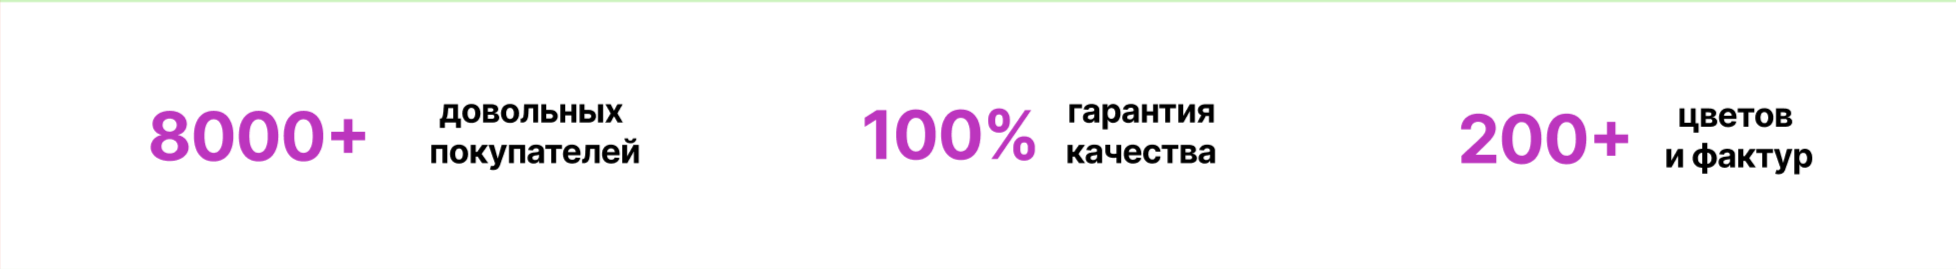
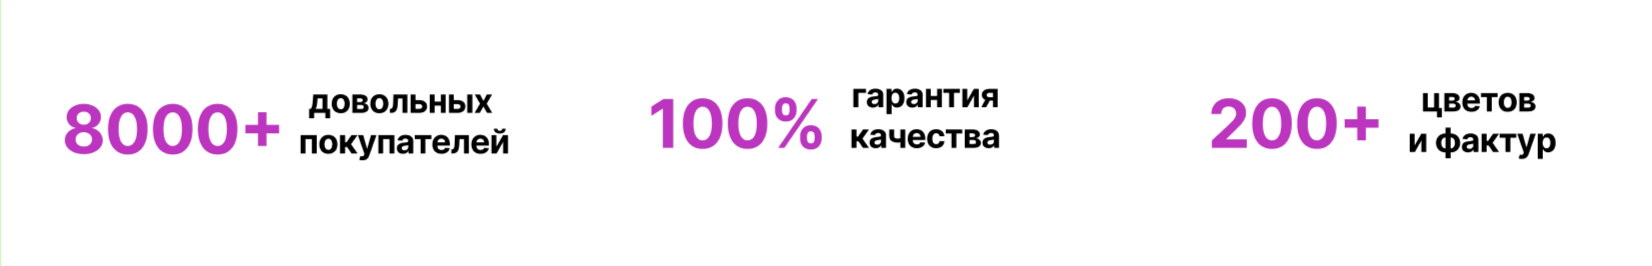
+

diff --git a/css/style.css b/css/style.css
@@ -45,24 +45,23 @@ a {
 
 .advantages {
     display: flex;
-    height: 100%;
-    padding: 15px;
-    justify-content: space-between;
-    align-items: center;
+    flex-wrap: wrap;
+    margin: auto;
+    padding: 10px;
+    max-width: 1150px;
+    justify-content: space-around; 
 }   
 
 .advantages_banner {
-    max-width: 750px;
+    max-height: 224px;
 }
 
 .advantages_description {
-    max-width: 370px;
+    max-height: 224px;
 }
 
 .numbers {
-    max-width: 1150px;
-    display: flex;
-    align-items: center;
+    max-width: 100%;
 }
 
 .catalog_header {
